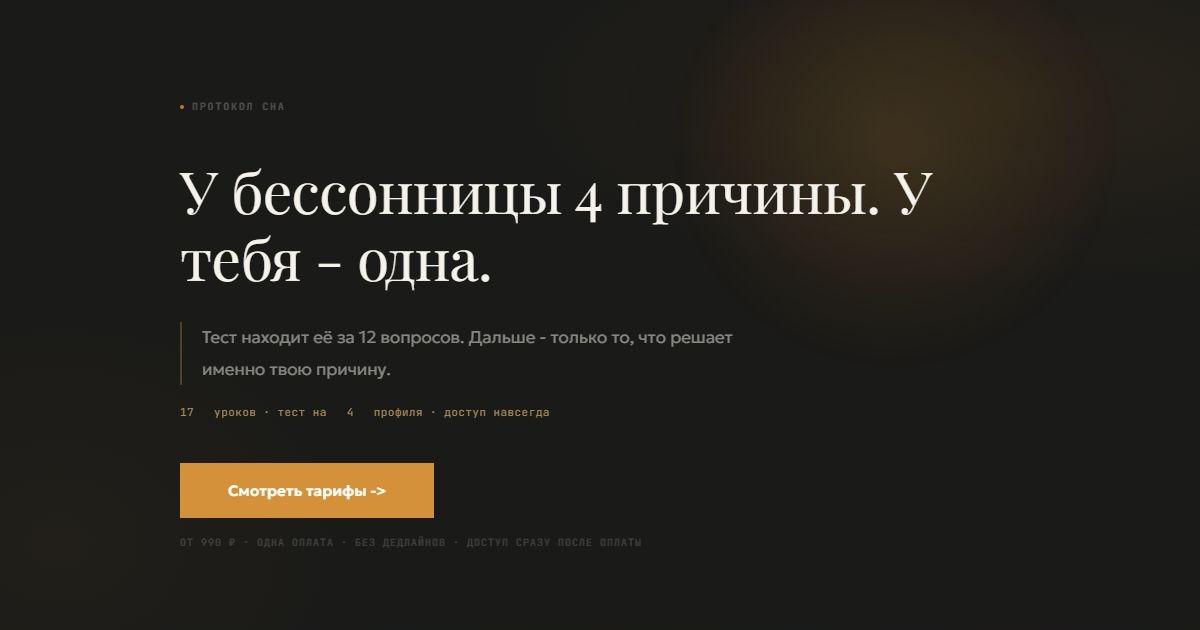
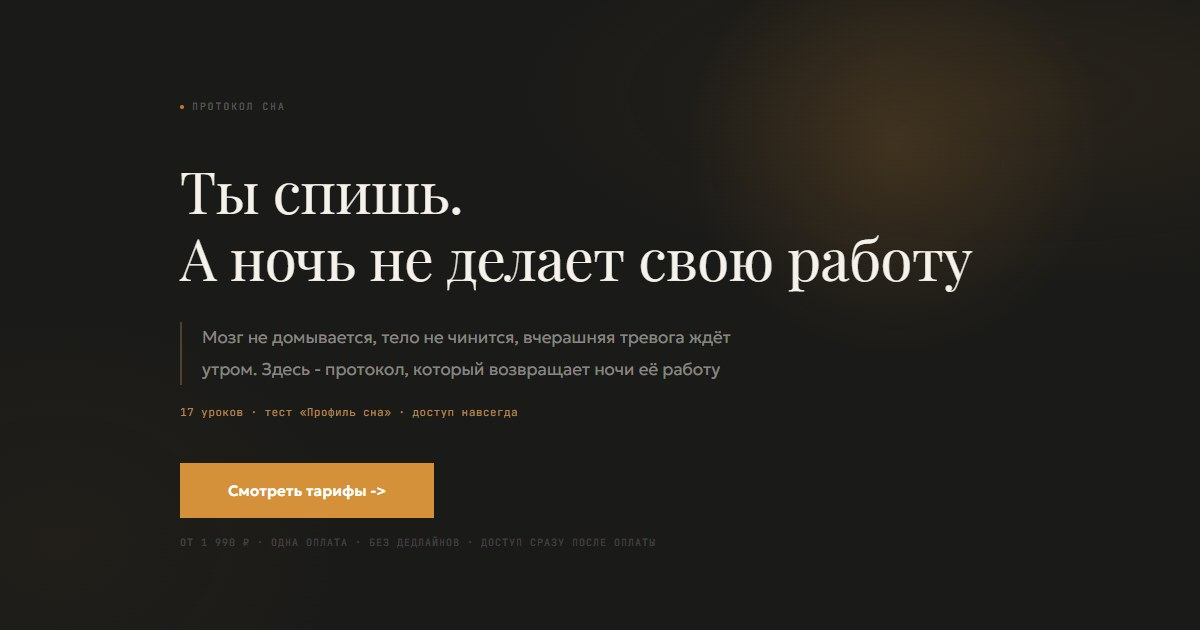
Протокол сна: SEO - новые превью, разметка курса с ценами, sitemap, метки калькулятора и программы

diff --git a/index.html b/index.html
@@ -319,6 +319,46 @@ body[data-tone="dawn"] { background: #faf3e6; }
 .test-card.for-you, .program-block.for-you { outline: 2px solid var(--amber-mid); outline-offset: 2px; }
 .for-you-tag { display: inline-block; font: 11px 'JetBrains Mono', monospace; color: #fff; background: var(--amber); border-radius: 999px; padding: 2px 9px; margin-bottom: 8px; }
 </style>
+<script type="application/ld+json">
+{
+  "@context": "https://schema.org",
+  "@type": "Course",
+  "name": "Протокол сна",
+  "description": "Мозг не домывается, тело не чинится, вчерашняя тревога ждёт утром. Протокол сна: 17 уроков и тест на 4 способа, которыми ломается ночь",
+  "url": "https://bodycodelab.github.io/son/",
+  "image": "https://bodycodelab.github.io/son/cover-son-index.jpg",
+  "inLanguage": "ru",
+  "provider": {
+    "@type": "Organization",
+    "name": "ИП Гладько Инна Валерьевна",
+    "url": "https://bodycodelab.github.io/son/"
+  },
+  "hasCourseInstance": {
+    "@type": "CourseInstance",
+    "courseMode": "online"
+  },
+  "offers": [
+    {
+      "@type": "Offer",
+      "name": "Протокол сна: База",
+      "price": "1990",
+      "priceCurrency": "RUB",
+      "availability": "https://schema.org/InStock",
+      "category": "Paid",
+      "url": "https://bodycodelab.github.io/son/#pricing"
+    },
+    {
+      "@type": "Offer",
+      "name": "Протокол сна: Система",
+      "price": "3990",
+      "priceCurrency": "RUB",
+      "availability": "https://schema.org/InStock",
+      "category": "Paid",
+      "url": "https://bodycodelab.github.io/son/#pricing"
+    }
+  ]
+}
+</script>
 </head>
 <body>
 
@@ -403,7 +443,7 @@ body[data-tone="dawn"] { background: #faf3e6; }
   <div class="section-h2">Индустрия сна продаёт засыпание</div>
   <p class="section-p" style="max-width:none">Мелатонин, приложения, шумы, маски. Засыпание легко почувствовать и легко продать. А то, что происходит после него, не видно, и про это молчат. Пока ночь не делает свою работу, любое средство для засыпания помогает только войти в неё. Дело не в том, что тебе врали. Дело в том, что чинят не то место</p>
 
-  <div class="calc-box">
+  <div class="calc-box" id="calc">
     <div class="section-label" style="margin-bottom:14px"><div class="section-line"></div><div class="section-text">Проверь на себе</div><div class="section-line"></div></div>
     <p class="section-p" style="margin-bottom:16px">«Четвертьжизнь» кофеина - около 12 часов. Введи время последней чашки и время отбоя - посчитаем, сколько кофеина ещё будет в мозге.</p>
     <div class="calc-row">
@@ -444,7 +484,7 @@ body[data-tone="dawn"] { background: #faf3e6; }
   </div>
 </div>
 
-<div class="container">
+<div class="container" id="program">
   <div class="section-label"><div class="section-line"></div><div class="section-text">Программа</div><div class="section-line"></div></div>
   <div class="section-h2">Что забираешь на каждом шаге</div>
   <p class="section-p">Не курс из 17 уроков подряд ради процесса - каждый блок даёт конкретный результат, который можно применить в тот же день.</p>

diff --git a/article.html b/article.html
@@ -26,7 +26,21 @@
   "headline": "Ты спишь 8 часов. А утром сил всё равно нет. Вот почему",
   "description": "Сон есть, а ночная работа не сделана: мозг не домывается, тело не чинится, вчерашняя тревога ждёт утром. 7 механизмов, у каждого имя учёного и источник.",
   "url": "https://bodycodelab.github.io/son/article.html",
-  "inLanguage": "ru"
+  "mainEntityOfPage": "https://bodycodelab.github.io/son/article.html",
+  "image": "https://bodycodelab.github.io/son/cover-son.jpg",
+  "datePublished": "2026-09-06",
+  "dateModified": "2026-10-16",
+  "inLanguage": "ru",
+  "author": {
+    "@type": "Organization",
+    "name": "ИП Гладько Инна Валерьевна",
+    "url": "https://bodycodelab.github.io/son/"
+  },
+  "publisher": {
+    "@type": "Organization",
+    "name": "ИП Гладько Инна Валерьевна",
+    "url": "https://bodycodelab.github.io/son/"
+  }
 }
 </script>
 <!-- Yandex.Metrika counter -->
